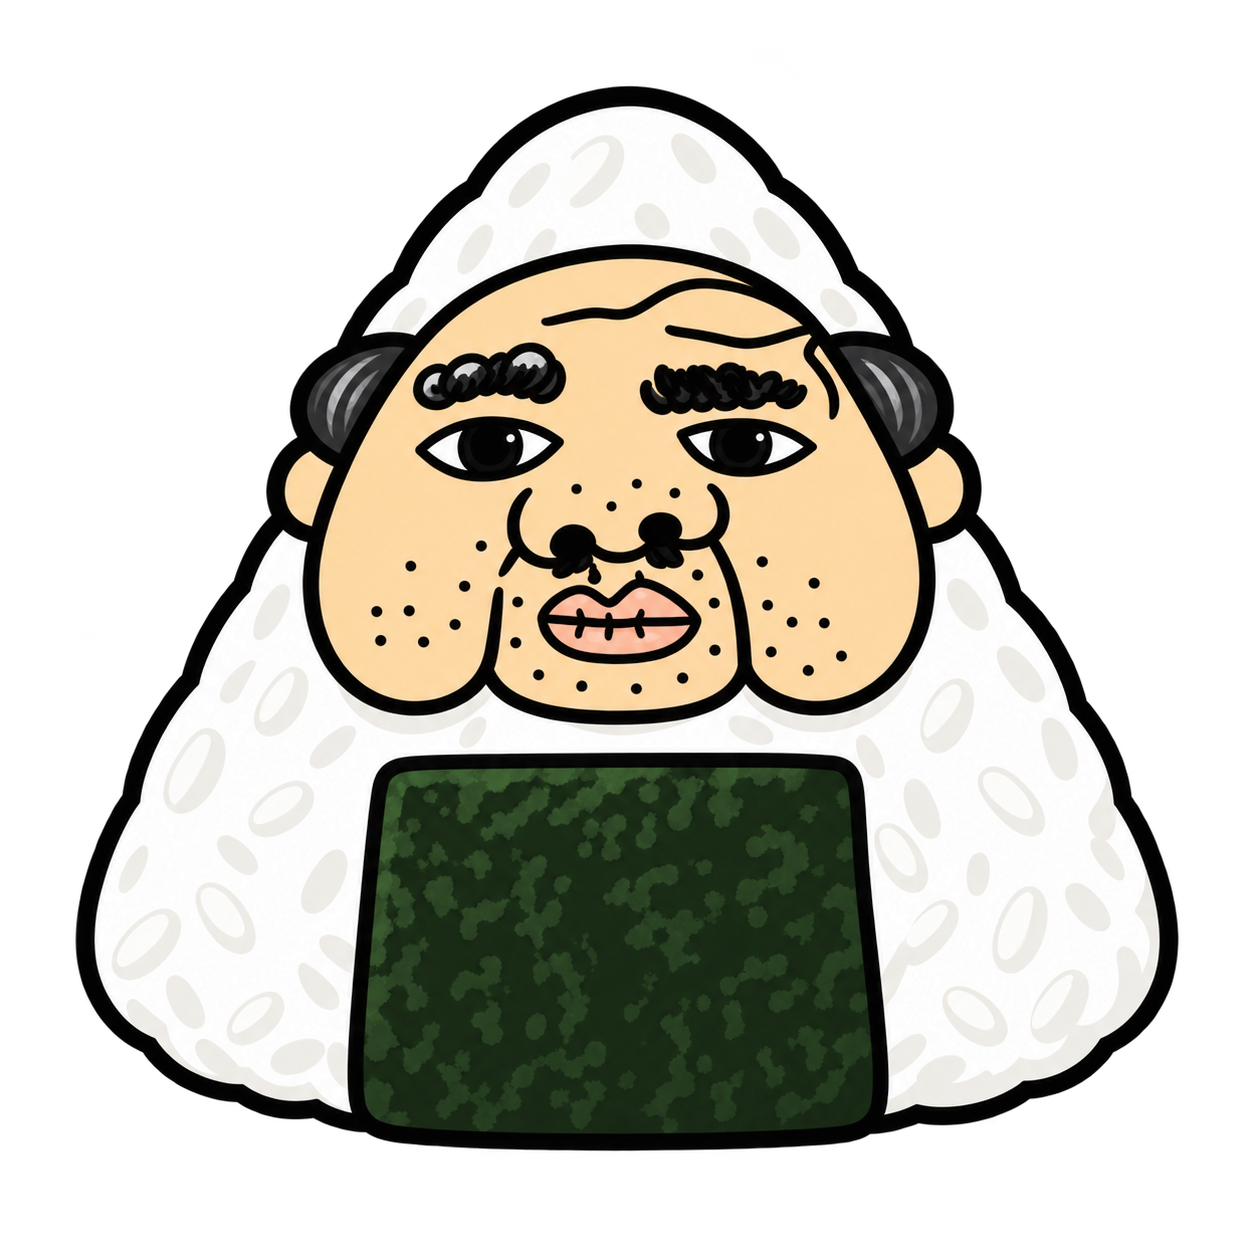
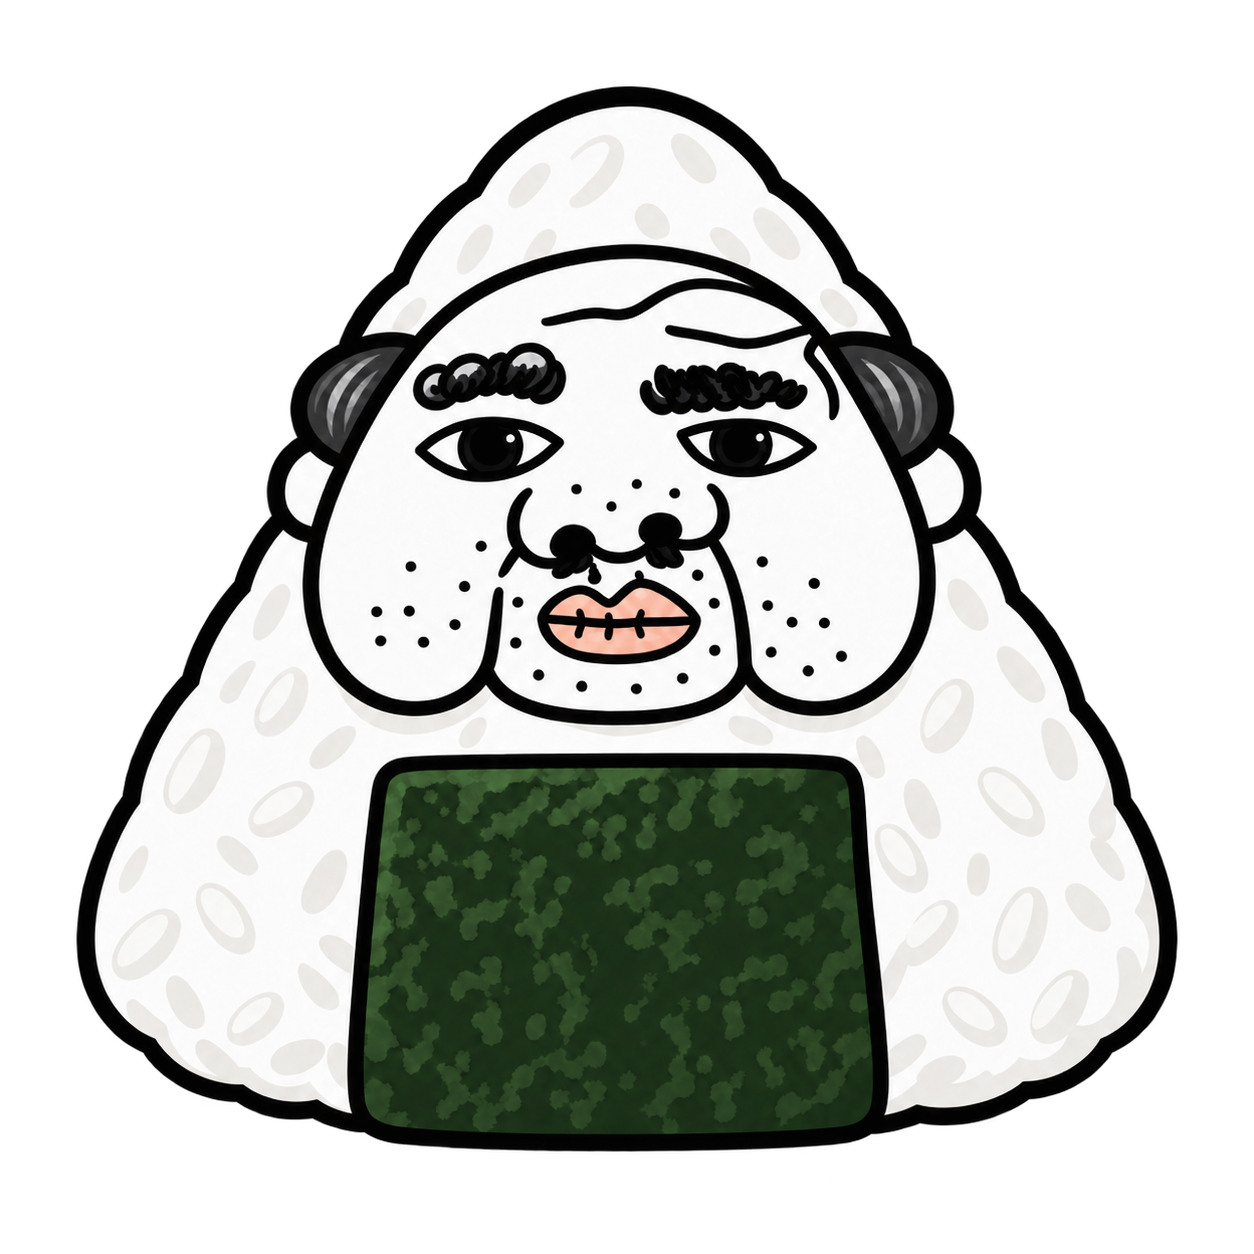
骨の犬とおにぎりマンと赤ちゃんを調整

Changed region(s): [[0.2177, 0.1866, 0.7775, 0.5909], [0.2488, 0.8708, 0.2799, 0.9019]]

diff --git a/app-card-battle-v2.js b/app-card-battle-v2.js
@@ -1009,7 +1009,7 @@ async function runnerGame(){
   const updatedNpcSourceNames=gameNpcNames.map(name=>name+'.png');
   const updatedItemLightNames={'宇宙人の角.png':'item01.jpg','名刺.png':'item02.jpg','下痢止め.png':'item03.jpg','骨.png':'item04.jpg','栄養剤.png':'item05.jpg','拳銃.png':'item06.jpg','温泉の素.png':'item07.jpg','３Dプリンター.png':'item08.jpg','お通し.png':'item09.jpg','便器ブラシ.png':'item10.jpg'};
   // 元画像は npc/ に保存したまま、ゲーム内では軽量化済みの npc-light/ だけを読み込む。
-  const npcAssetVersion='20261002-new-npcs-4-1';
+  const npcAssetVersion='20261002-new-npcs-visual-2';
   const npcAsset=name=>{name=String(name||'');const art=name.match(/^ura(\d{3})_/),custom=name.match(/^custom(\d{3})_/),npcIndex=updatedNpcSourceNames.indexOf(name),path=art?eventArtSrc(art[1]):custom?eventArtSrc(custom[1]):npcIndex>=0?'npc-light/npc'+String(npcIndex+1).padStart(2,'0'):(updatedItemLightNames[name]?'npc-light/'+updatedItemLightNames[name]:gameItemSrc(name));return path+'?v='+npcAssetVersion};
   // 2つ目の答えでは、まだ出ていない言葉NPCをランダムに出現させる。
   const showGameClear=()=>{if(gameClearShown)return;gameClearShown=true;const clear=document.createElement('div');clear.className='game-clear';clear.innerHTML='<strong>ゲームクリア！</strong><small>タップして閉じる</small>';clear.onclick=()=>clear.remove();runnerWrap.append(clear)};
@@ -1198,7 +1198,7 @@ const focusUpdatedNpcArrival=npc=>{if(npc)npc.visible=true};
       const image=document.createElement('img'),npc={...definition,number,image,placedFromLayout:true,mapIndex:Number(placed.map),x:Number(placed.x)/100*WORLD_WIDTH,y:(100-Number(placed.y))/100*mapHeight(),visible:placed.visible!==false};
       if((npc.eventType||'words')==='words'&&!String(npc.firstMessage||'').trim())npc.firstMessage='こんにちは！';
       const profileAsset=configured?.profileAsset||configured?.profileId||number;
-      image.className='character-npc';image.src='npc-light/'+profileAsset+(String(profileAsset).endsWith('.png')?'':'.png')+'?v=20261002-new-npcs-4-1';image.alt=definition.name;
+      image.className='character-npc';image.src='npc-light/'+profileAsset+(String(profileAsset).endsWith('.png')?'':'.png')+'?v=20261002-new-npcs-visual-2';image.alt=definition.name;
       image.addEventListener('click',event=>{event.preventDefault();event.stopPropagation();if(npc.eventType==='normal'){startNormalNpcEvent(npc);return}if(npc.eventType==='quiz'||npc.eventType==='survey'||npc.eventType==='ultimate'){sanitizeQuizNpc(npc);startQuizNpcEvent(npc);return}if(talkOrbCount>0)openWordNpcIntro(npc);else{const message=document.createElement('div');message.className='character-npc-bubble';message.textContent='話せる実がないよ';characterNpcWrap.append(message);setTimeout(()=>message.remove(),1200)}});
       characterNpcWrap.append(image);characterNpcs.push(npc);
     });

diff --git a/index.html b/index.html
@@ -12,7 +12,7 @@
   <main class="page"><section id="app" class="card"></section></main>
   <script>
     const q=new URLSearchParams(location.search),j=document.createElement('script');
-j.src=q.has('topdown')?'app-topdown.js?v=20260928-map-refresh-2':q.has('hiragana')?'app-hiragana.js?v=20260928-map-refresh-2':'app-card-battle-v2.js?v=20261002-new-npcs-4-1';
+j.src=q.has('topdown')?'app-topdown.js?v=20260928-map-refresh-2':q.has('hiragana')?'app-hiragana.js?v=20260928-map-refresh-2':'app-card-battle-v2.js?v=20261002-new-npcs-visual-2';
     document.body.append(j);
   </script>
 </body>

diff --git a/map/index.html b/map/index.html
@@ -12,6 +12,6 @@
 </head>
 <body>
   <main class="page"><section id="app" class="card"></section></main>
-<script src="../app-card-battle-v2.js?v=20261002-new-npcs-4-1"></script>
+<script src="../app-card-battle-v2.js?v=20261002-new-npcs-visual-2"></script>
 </body>
 </html>
